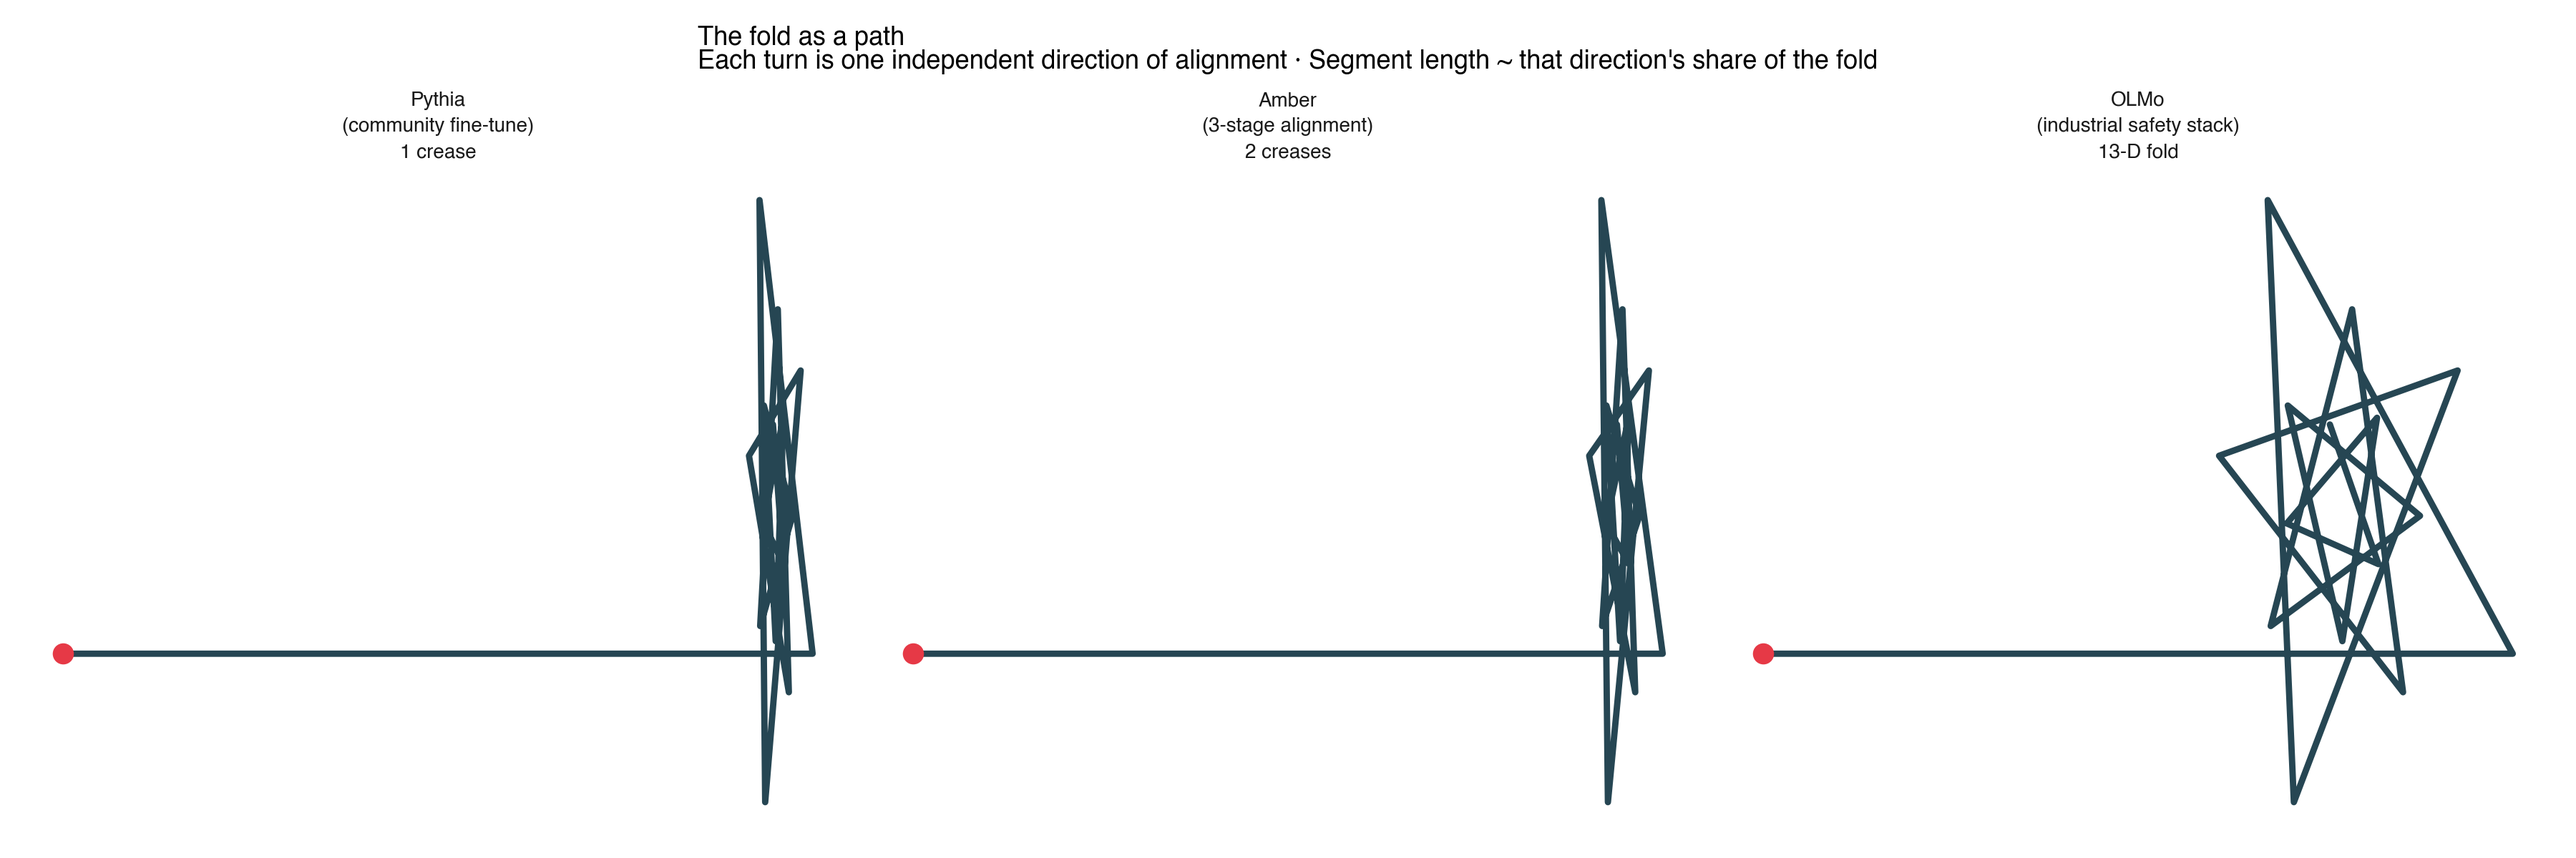
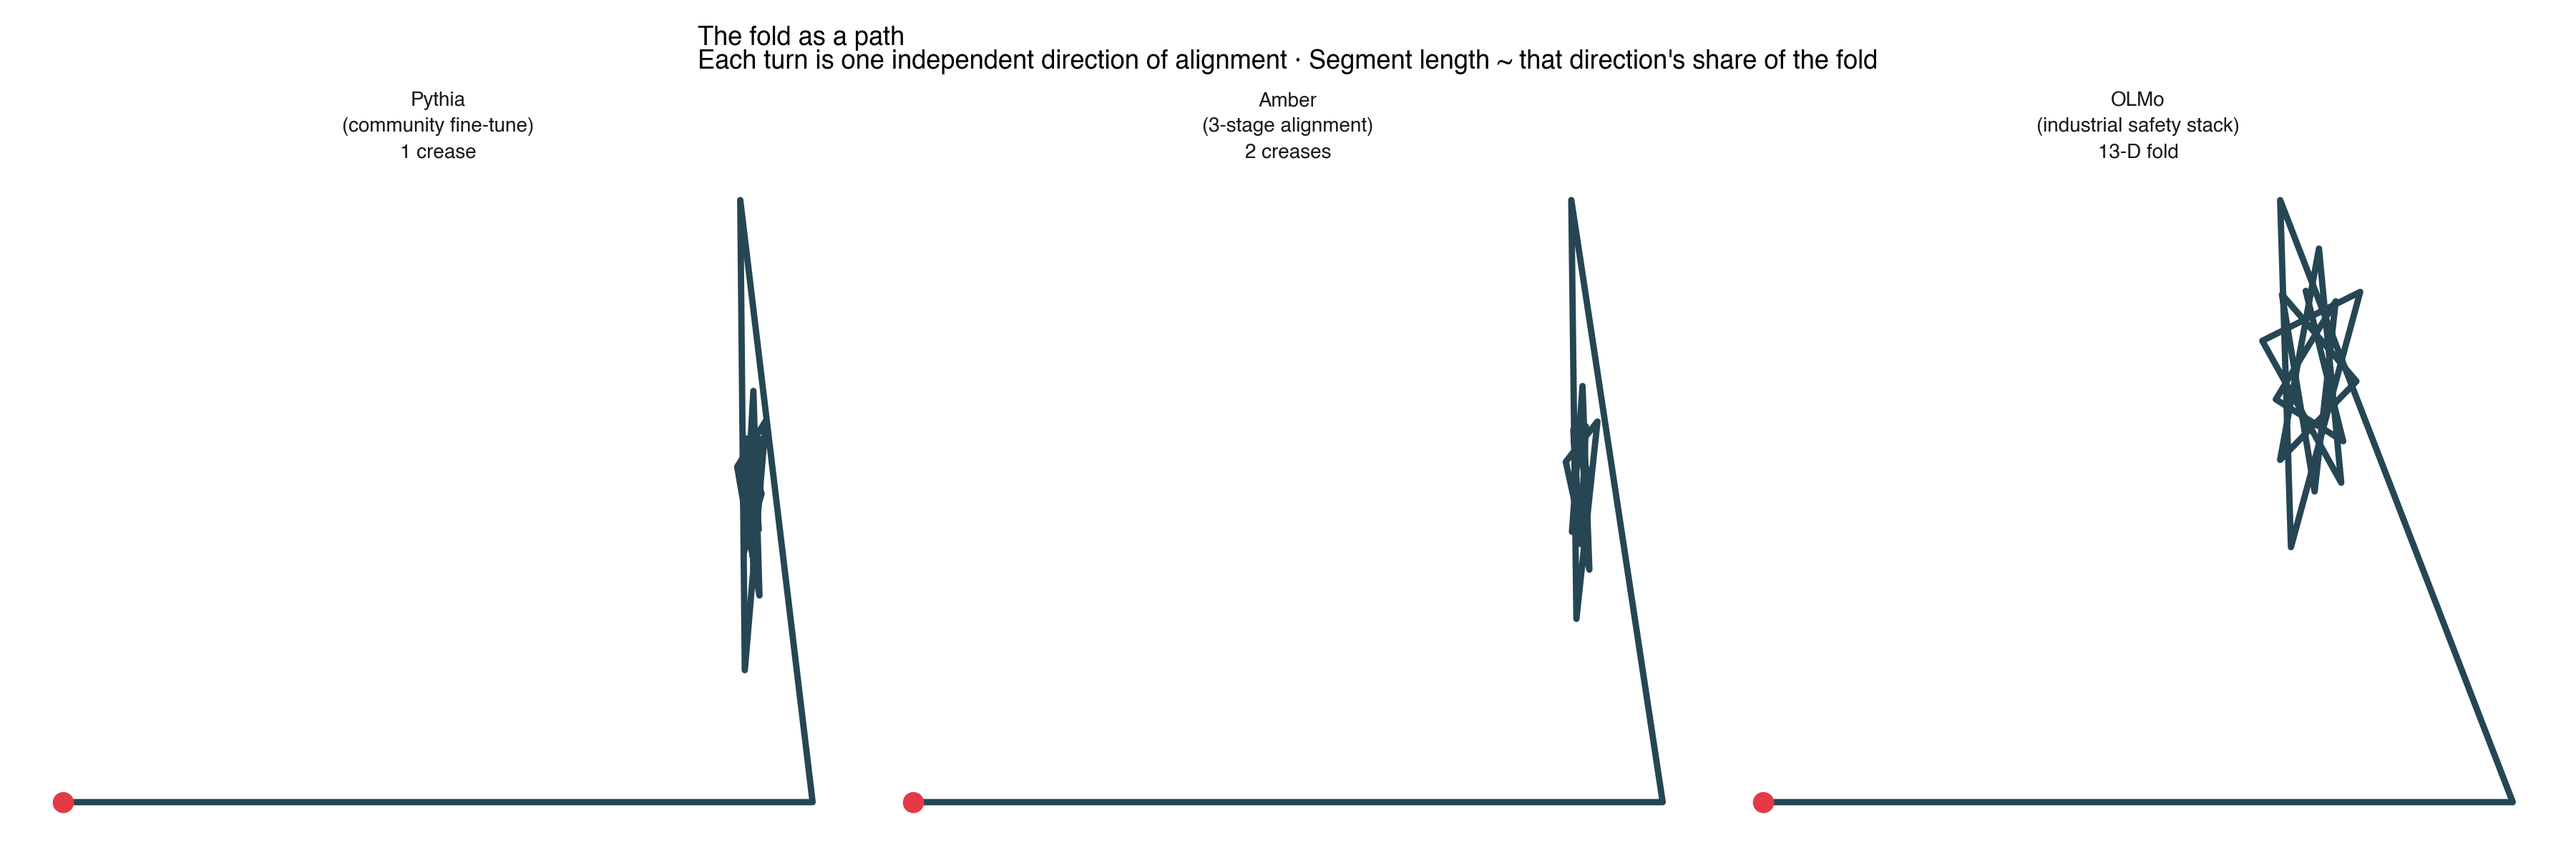
F12: real singular value spectra + regenerated talk figures
Saved fold_spectrum_{pythia,amber,olmo}.csv with full SVD spectra.
Both figures now use real data. Pythia first component = 66% of path,
OLMo = 34%. Cumvar overlay and fold-as-path both regenerated.

diff --git a/scripts/compute_fold_spectrum.py b/scripts/compute_fold_spectrum.py
@@ -1,0 +1,70 @@
+"""Compute and save fold spectrum (singular values) for selected families.
+
+Only loads base + superego (2 models), computes SVD of hidden state
+differences, saves full spectrum to data/fold_spectrum_{family}.csv.
+
+Usage: python scripts/compute_fold_spectrum.py [family1 family2 ...]
+       Default: pythia amber olmo
+"""
+import sys
+import gc
+import numpy as np
+import pandas as pd
+import torch
+from transformers import AutoModelForCausalLM, AutoTokenizer
+
+if __name__ == '__main__':
+    from malign_logits import MODEL_FAMILIES
+    from malign_logits.experiments import DEFAULT_PROMPTS
+    from malign_logits.trajectory import last_hidden
+
+    families = sys.argv[1:] if len(sys.argv) > 1 else ['pythia', 'amber', 'olmo']
+
+    for fam_key in families:
+        print(f'\n=== {fam_key} ===')
+        fam = MODEL_FAMILIES[fam_key]
+        fold_df = pd.read_csv(f'data/fold_rank_{fam_key}.csv')
+        best_L = int(fold_df['layer'].iloc[0])
+        print(f'  Layer: {best_L}')
+
+        print(f'  Loading {fam.base}...')
+        tok = AutoTokenizer.from_pretrained(fam.base, trust_remote_code=True)
+        base_model = AutoModelForCausalLM.from_pretrained(
+            fam.base, dtype=torch.float16, device_map='mps', trust_remote_code=True)
+
+        print(f'  Loading {fam.superego}...')
+        dpo_model = AutoModelForCausalLM.from_pretrained(
+            fam.superego, dtype=torch.float16, device_map='mps', trust_remote_code=True)
+
+        print(f'  Computing hidden state diffs for {len(DEFAULT_PROMPTS)} prompts...')
+        diff_vecs = []
+        for i, (label, prompt) in enumerate(DEFAULT_PROMPTS.items()):
+            base_h = last_hidden(base_model, tok, prompt, best_L)
+            dpo_h = last_hidden(dpo_model, tok, prompt, best_L)
+            diff_vecs.append((dpo_h - base_h).numpy())
+            if (i + 1) % 20 == 0:
+                print(f'    [{i+1}/{len(DEFAULT_PROMPTS)}]')
+
+        diff_matrix = np.stack(diff_vecs)
+        U, S, Vt = np.linalg.svd(diff_matrix, full_matrices=False)
+        cumvar = np.cumsum(S**2) / np.sum(S**2)
+        k_50 = int(np.searchsorted(cumvar, 0.5)) + 1
+
+        sv_csv = f'data/fold_spectrum_{fam_key}.csv'
+        pd.DataFrame({
+            'index': range(len(S)),
+            'singular_value': S,
+            'var_pct': S**2 / (S**2).sum() * 100,
+            'cumvar_pct': cumvar * 100,
+        }).to_csv(sv_csv, index=False)
+
+        print(f'  K_50={k_50}, top1={S[0]**2/(S**2).sum()*100:.1f}%')
+        print(f'  Top 5 var%: {", ".join(f"{v:.1f}" for v in (S[:5]**2/(S**2).sum()*100))}')
+        print(f'  Saved {sv_csv}')
+
+        del base_model, dpo_model, tok
+        gc.collect()
+        if torch.backends.mps.is_available():
+            torch.mps.empty_cache()
+
+    print('\nDone.')
